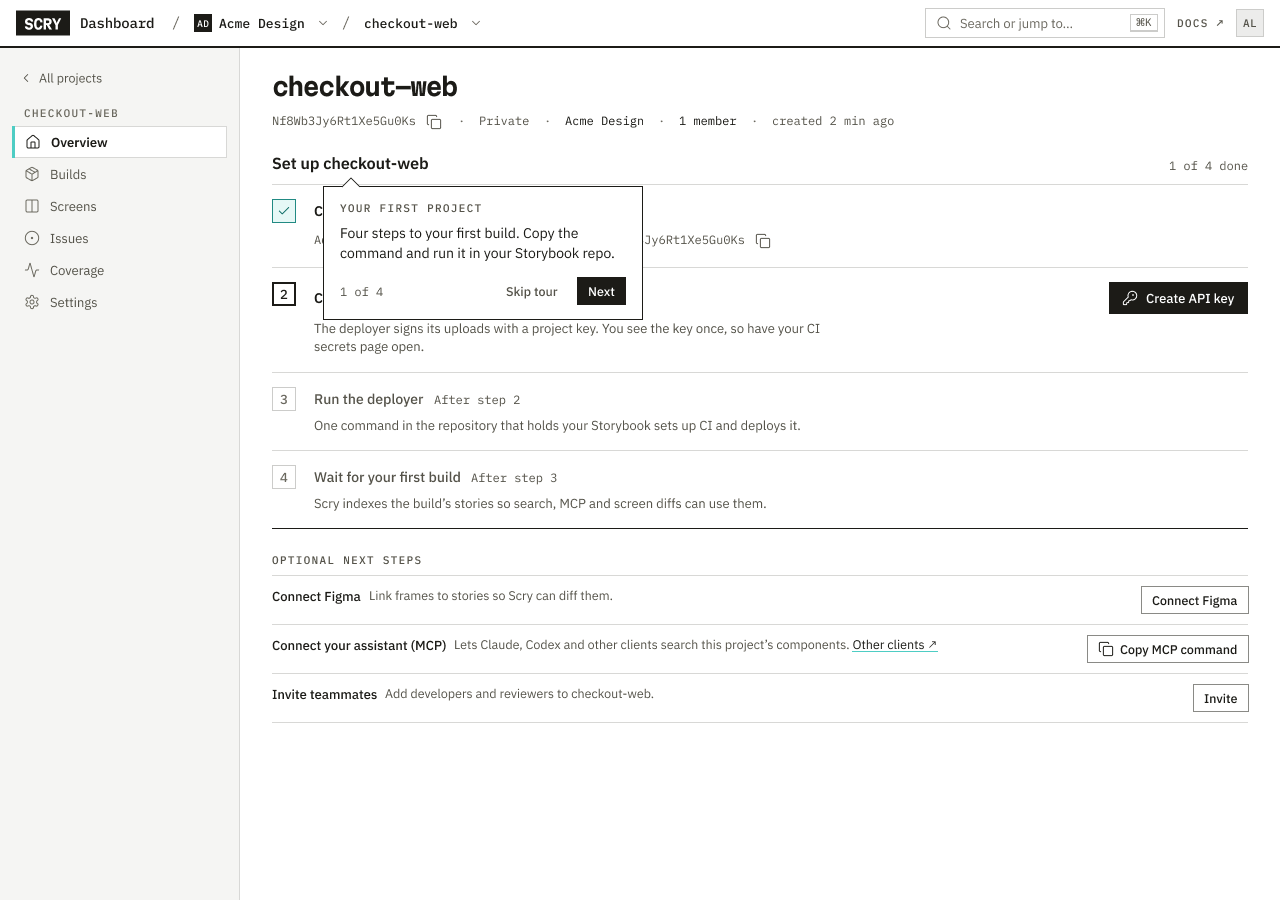
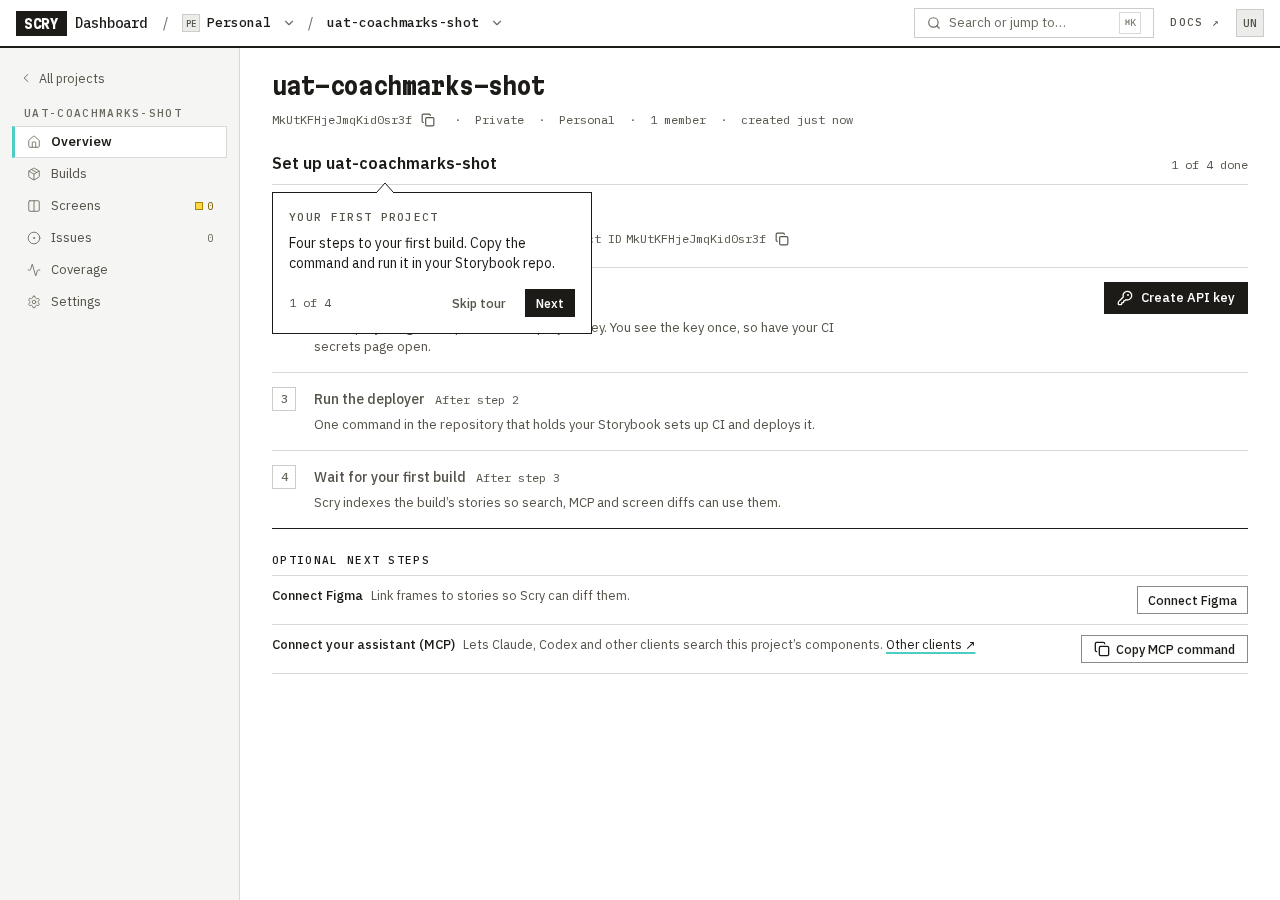
docs(coachmarks): real stage screenshots, honest card-overlap wording, fix typo
Replaces the three placeholder images with stage screenshots (Help cropped to the tour rows
so no staff navigation or fixture names show), says a card can cover part of the page and how
to dismiss it, fixes a double period.

diff --git a/guide/quick-start.md b/guide/quick-start.md
@@ -96,7 +96,7 @@ project's ID. A successful static upload alone does not confirm search is ready.
 
 ## The dashboard tour
 
-The first time you open the dashboard with a new account, two short tours point at the controls you need. Each step is a small card next to a real control, with **Next**, **Back** and **Skip tour**. Nothing dims the page, so you can keep clicking and typing while a card is showing. Esc skips the tour.
+The first time you open the dashboard with a new account, two short tours point at the controls you need. Each step is a small card next to a real control, with **Next**, **Back** and **Skip tour**. Nothing dims the page and a card never traps your keyboard, so you can keep using the dashboard while it is showing. A card can cover part of the page: press Esc (when you are not typing in a field) or choose **Skip tour** to dismiss it.
 
 - **Welcome** appears on the Projects page while you have no projects. It points at **New project**, the workspace switcher and search (Ctrl+K, or Cmd+K on Mac).
 - **Your first project** appears on a project's Overview the first time you open your first project, before its first build is indexed. It points at the setup checklist, then **Builds**, **Screens** and **Issues** in the sidebar.

diff --git a/guide/account-settings.md b/guide/account-settings.md
@@ -1,6 +1,6 @@
 # Account settings
 
-**Account** in the dashboard holds settings that belong to you rather than to a workspace or a project..
+**Account** in the dashboard holds settings that belong to you rather than to a workspace or a project.
 
 ## Help
 
@@ -9,6 +9,6 @@
 - **Replay tours** lists each tour, **Welcome** and **Your first project**, with whether you finished or skipped it. Choose **Replay** to clear it and start it again where it begins: the Projects page for Welcome, your most recent project for Your first project.
 - If you have no project yet, Replay for Your first project is disabled until you create one.
 
-![Account Help with a Replay button for each tour](/images/coachmarks/help-done-skipped-storybook.png)
+![Account, Help: a tour with its Replay button](/images/coachmarks/account-help-replay-tours.png)
 
 Tours are described in [Quick Start](/guide/quick-start#the-dashboard-tour). They show once, only on screens 900 pixels wide or more.
